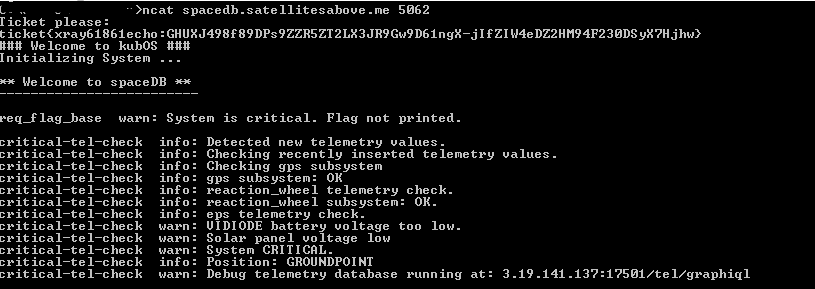
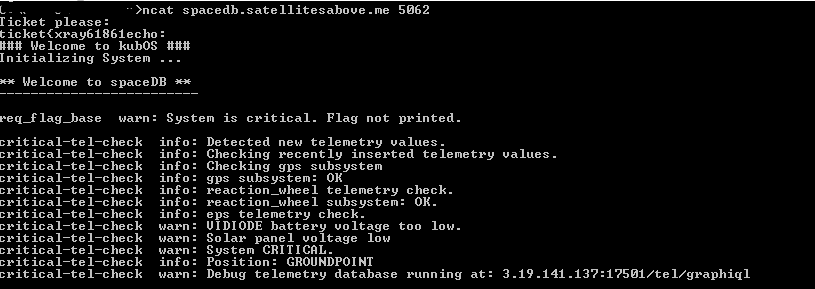
Removed ticket info from SpaceDB

Changed region(s): [[0.184, 0.0934, 0.8589, 0.1557]]

diff --git a/Payload Modules/SpaceDB/README.md b/Payload Modules/SpaceDB/README.md
@@ -27,7 +27,7 @@ Note: When you're done planning, go to low power mode to wait for the next trans
 Present this ticket when connecting to the challenge:
 
 ```
-ticket{xray61861echo:GHUXJ498f89DPs9ZZR5ZT2LX3JR9Gw9D61ngX-jIfZIW4eDZ2HM94F230DSyX7Hjhw}
+ticket{xray61861echo:XXXXXXXXXXXXXXXXXXXXXXXX-XXXXXXXXXXXXXXXX}
 ```
 
 Don't share your ticket with other teams.
@@ -57,7 +57,7 @@ We connect to the server and provide our ticket, started seeing the below output
 ```
 root# nc spacedb.satellitesabove.me 5062
 Ticket please:
-ticket{xray61861echo:GHUXJ498f89DPs9ZZR5ZT2LX3JR9Gw9D61ngX-jIfZIW4eDZ2HM94F230DSyX7Hjhw}
+ticket{xray61861echo:XXXXXXXXXXXXXXXXXXXXXXXX-XXXXXXXXXXXXXXXX}
 ### Welcome to kubOS ###
 Initializing System ...
 
